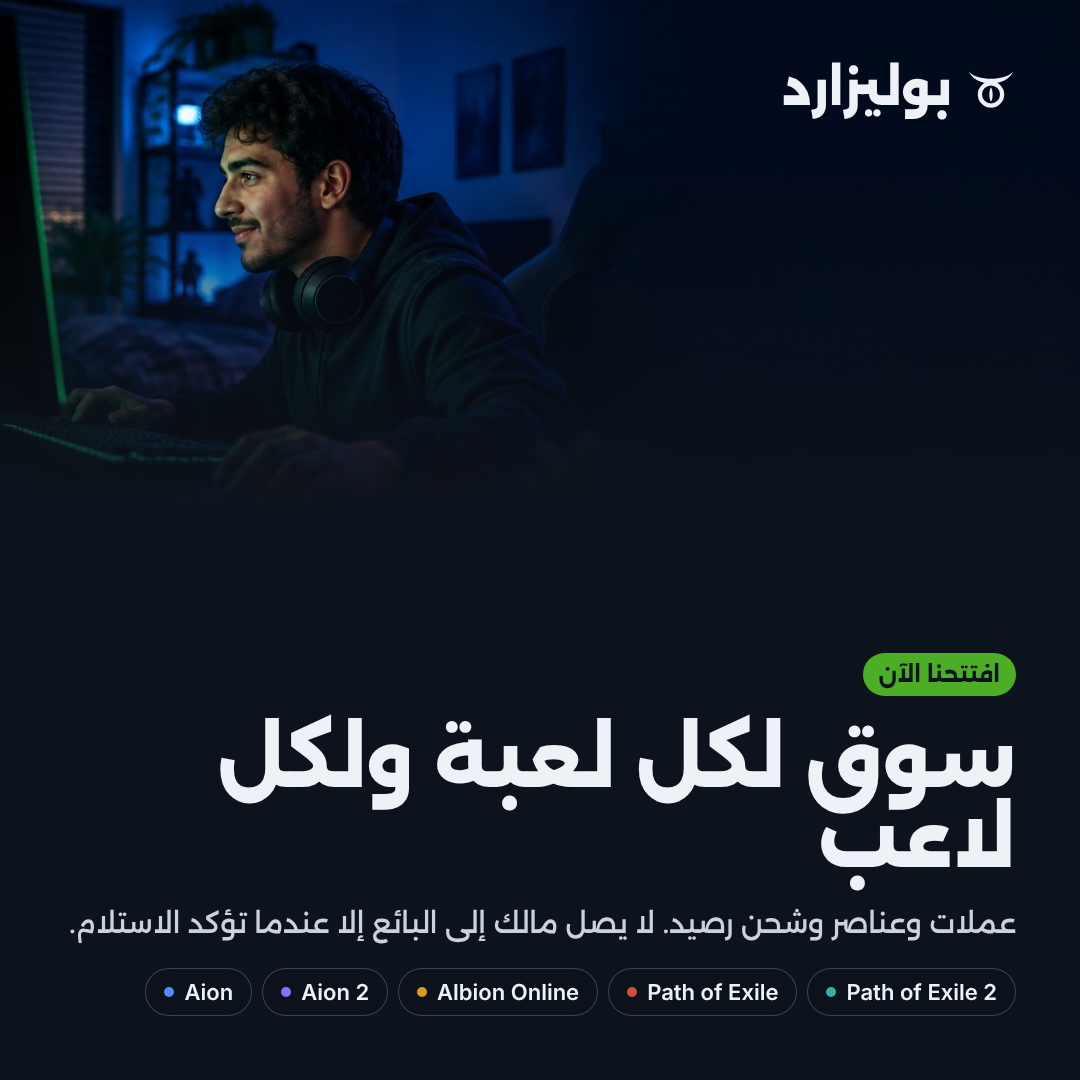
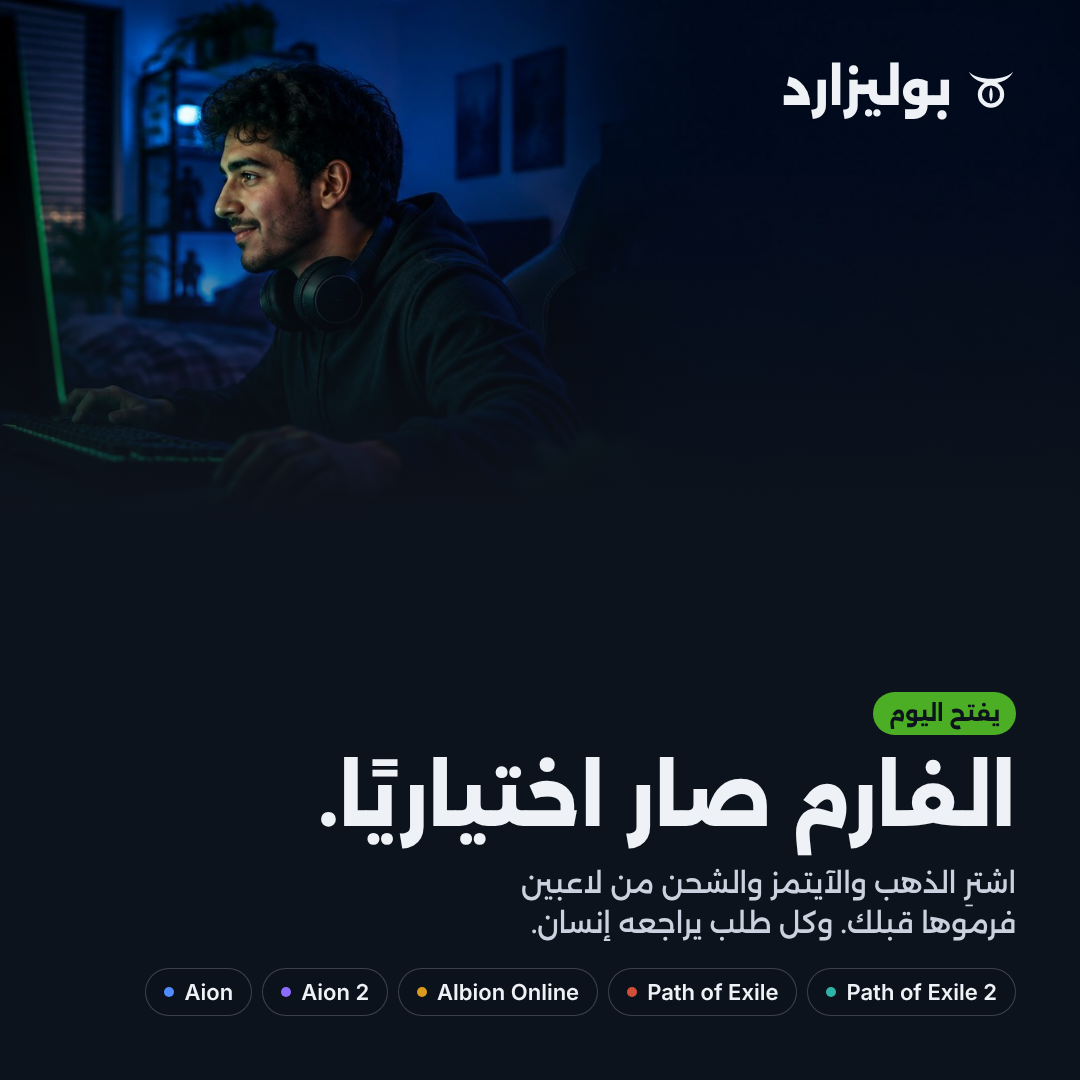
Launch and community art: Copywriter's final lines
- Launch posts (EN + AR, all sizes): "The grind is optional now." with the approved sub-line and "Opens today".
- Discord/Telegram banners: the tagline "Skip the grind. Every order human-checked." in EN + AR, "No trading here".
- Balanced line breaks (no single-word last lines).

Claude-Session: https://claude.ai/code/session_01AWGieqpNV9t93MPFhGuVhT

Changed region(s): [[0.0611, 0.5806, 0.9472, 0.8861]]

diff --git a/design/social/src/gen.py b/design/social/src/gen.py
@@ -58,7 +58,7 @@ def pattern(motif, w, h, tint, seed=7):
 BASE_CSS=f"""*{{margin:0;padding:0;box-sizing:border-box}} body{{background:{NIGHT};}}
 .c{{position:relative;overflow:hidden;background:radial-gradient(120% 140% at 85% 30%, var(--glow) 0%, transparent 55%), linear-gradient(135deg,{NIGHT} 0%,{PAPER} 100%);color:{FROST};font-family:Inter,sans-serif}}
 .pat{{position:absolute;inset:0}} div > .pat{{position:static;display:block}} .shade{{position:absolute;inset:0;background:linear-gradient(90deg,{NIGHT} 0%, rgba(13,19,28,.85) 30%, rgba(13,19,28,0) 65%)}}
-h1,.d{{font-family:Alexandria,sans-serif;font-weight:800;letter-spacing:-0.01em;line-height:1.02}}
+h1,.d{{font-family:Alexandria,sans-serif;font-weight:800;letter-spacing:-0.01em;line-height:1.02;text-wrap:balance}} p{{text-wrap:balance}}
 .mark svg{{display:block;width:100%;height:auto}} .word svg{{display:block;width:100%;height:auto}}
 """
 def page(w,h,body,extra=''):
@@ -105,9 +105,9 @@ def lockup(width):
     return f'<div style="display:flex;align-items:center;gap:{width*0.08:.0f}px"><div class="mark" style="width:{mw:.0f}px">{MARK}</div><div class="word" style="width:{width:.0f}px">{WORD}</div></div>'
 
 GAMELIST='Aion · Aion 2 · Albion Online · Path of Exile 1 &amp; 2'
-TXT={
- 'en':dict(dir='ltr',head='A marketplace for every game and gamer',sub='Currency, items and top-ups. Your money reaches the seller only when you confirm.',community='Updates, features and offers. Trading happens on the site only.',launch='Now open',games=GAMELIST),
- 'ar':dict(dir='rtl',head='سوق لكل لعبة ولكل لاعب',sub='عملات وعناصر وشحن رصيد. لا يصل مالك إلى البائع إلا عندما تؤكد الاستلام.',community='تحديثات ومزايا وعروض. التداول على الموقع فقط.',launch='افتتحنا الآن',games=GAMELIST),
+TXT={  # Copywriter's final lines (claude/bullizard-copy-deck.md §1 and §7.1)
+ 'en':dict(dir='ltr',head='The grind is optional now.',sub='Buy gold, items and top-ups from players who already farmed them. Every order human-checked.',community='Skip the grind. Every order human-checked.',launch='Opens today',games=GAMELIST),
+ 'ar':dict(dir='rtl',head='الفارم صار اختياريًا.',sub='اشترِ الذهب والآيتمز والشحن من لاعبين فرموها قبلك. وكل طلب يراجعه إنسان.',community='تخطَّ الفارم. وكل طلب يراجعه إنسان.',launch='يفتح اليوم',games=GAMELIST),
 }
 # Discord banner 960x540, invite splash 1920x1080, Telegram header 1280x720 (bilingual)
 for key,w,h in [('social/discord-banner',960,540),('social/discord-invite-splash',1920,1080),('social/telegram-header',1280,720)]:
@@ -116,8 +116,9 @@ for key,w,h in [('social/discord-banner',960,540),('social/discord-invite-splash
 <div style="position:absolute;inset:0;background:radial-gradient(70% 70% at 50% 50%, rgba(13,19,28,.94) 0%, rgba(13,19,28,.8) 55%, rgba(13,19,28,.35) 100%)"></div>
 <div style="position:absolute;inset:0;display:flex;flex-direction:column;align-items:center;justify-content:center;gap:{26*k:.0f}px;text-align:center;color:{FROST}">
 {lockup(340*k)}
-<p style="font:500 {20*k:.0f}px/1.4 Inter;color:{STEEL}">{TXT['en']['community']}</p>
-<p dir="rtl" style="font:500 {21*k:.0f}px/1.4 Alexandria;color:{STEEL}">{TXT['ar']['community']}</p></div></div>'''
+<p style="font:600 {24*k:.0f}px/1.4 Inter;color:{FROST}">{TXT['en']['community']}</p>
+<p dir="rtl" style="font:600 {25*k:.0f}px/1.4 Alexandria;color:{FROST}">{TXT['ar']['community']}</p>
+<p style="font:500 {16*k:.0f}px/1.4 Inter;color:{STEEL}">News, new games and offers · No trading here</p></div></div>'''
     files[key]=(page(w,h,body),w,h,1)
 
 # Launch posts: square, portrait, story, landscape; EN + AR

diff --git a/design/social/README.md b/design/social/README.md
@@ -23,7 +23,7 @@ Each game has its own pattern and tint: Aion arcs (blue), Aion 2 double arcs (vi
 
 ## Launch posts → `launch/` (EN + AR)
 square 1080×1080 · portrait 1080×1350 · story 1080×1920 · landscape 1200×675.
-Copy is the site's current wording; swap in the Copywriter's final lines in `src/gen.py` (TXT) and rebuild.
+Copy is the Copywriter's final lines (copy deck §1 tagline, §7.1 launch). Domain left off until it's confirmed. Edit `TXT` in `src/gen.py` and rebuild to change them.
 
 ## Rebuild
 ```
